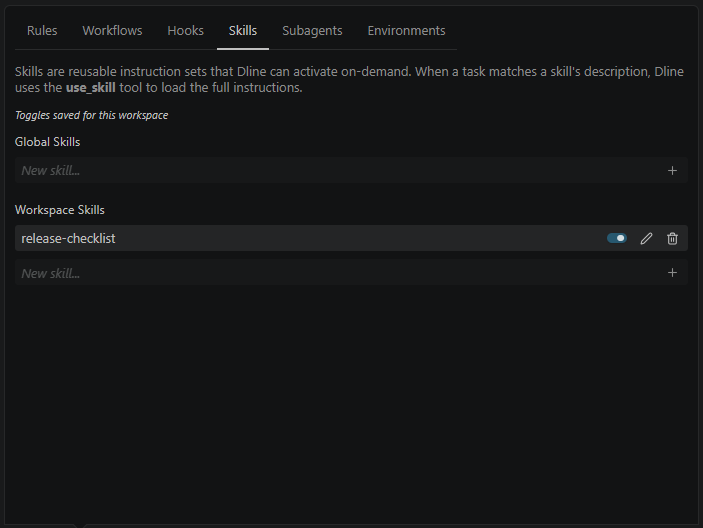
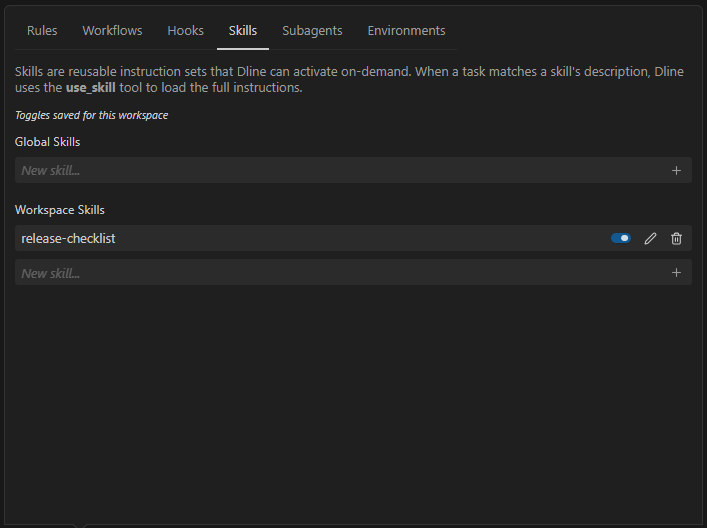
docs: show light-theme captures on the light docs theme
Docs:
- pair every @docs-assets capture with its -light edition at build time and let the Starlight theme classes show one of them, in both languages
- fail the content check when a capture has no light edition or names the light edition directly
- record light editions of every docs UI still and GIF, and re-record the dark stills against the current UI
- describe the panel title bar without the rollout-only Account button

Refactor:
- name documentation stills by theme so a light capture never replaces the dark one

diff --git a/src/test/e2e/demo/docs-ui.demo.ts b/src/test/e2e/demo/docs-ui.demo.ts
@@ -33,8 +33,9 @@ const WORKFLOW_NAME = "release-review"
 const MCP_NAME = "release-tools"
 const HEADER_TASK_TEXT = "Summarize the release checklist for this workspace."
 const HEADER_TASK_RESULT = "Release checklist summarized."
-// View-title actions contributed by package.json `menus.view/title`, in their display order.
-const PANEL_TITLE_ACTIONS = ["New Task", "MCP Servers", "History", "Account", "Settings"] as const
+// View-title actions contributed by package.json `menus.view/title`, in their display order. Account is
+// left out: it shows only while the account rollout includes the device, which a capture does not.
+const PANEL_TITLE_ACTIONS = ["New Task", "MCP Servers", "History", "Settings"] as const
 
 async function seedWorkspaceCapabilities(workspaceDir: string): Promise<void> {
     const files: Record<string, string> = {
@@ -113,13 +114,14 @@ function taskHeaderIconButton(header: Locator, icon: string): Locator {
     return header.locator(`button:has(svg.lucide-${icon})`).first()
 }
 
-demo("docs UI stills", async ({ helper, page, server, sidebar, workspaceDir }) => {
+demo("docs UI stills", async ({ demoTheme, helper, page, server, sidebar, workspaceDir }) => {
     demo.setTimeout(240_000)
     await seedWorkspaceCapabilities(workspaceDir)
     await helper.signin(sidebar)
 
     const panelTitle = page.locator('[id="workbench.parts.sidebar"] .composite.title').first()
     await captureDocScreenshot(page, sidebar, "panel-title-bar", {
+        theme: demoTheme,
         regions: [panelTitle],
         padding: 4,
         markers: PANEL_TITLE_ACTIONS.map((name, index) => ({
@@ -130,6 +132,7 @@ demo("docs UI stills", async ({ helper, page, server, sidebar, workspaceDir }) =
 
     const modeSwitch = sidebar.getByTestId("mode-switch")
     await captureDocScreenshot(page, sidebar, "chat-input-toolbar", {
+        theme: demoTheme,
         regions: [autoApproveToggle(sidebar, false), sidebar.getByTestId("chat-input"), modeSwitch],
         markers: [
             { label: "1", target: sidebar.getByTestId("context-button") },
@@ -155,7 +158,7 @@ demo("docs UI stills", async ({ helper, page, server, sidebar, workspaceDir }) =
     for (const { tab, id, item } of capabilityTabs) {
         await selectCapabilityTab(popup, tab)
         await expect(item).toBeVisible({ timeout: 30_000 })
-        await captureDocScreenshot(page, sidebar, id, { regions: [popup], padding: 4 })
+        await captureDocScreenshot(page, sidebar, id, { theme: demoTheme, regions: [popup], padding: 4 })
     }
     await sidebar.getByRole("button", { name: "Hide Dline Rules & Workflows", exact: true }).first().click()
     await expect(popup).toBeHidden()
@@ -164,6 +167,7 @@ demo("docs UI stills", async ({ helper, page, server, sidebar, workspaceDir }) =
     const autoApproveIntro = sidebar.getByText("Let Dline take these actions without asking for approval.", { exact: false })
     await expect(autoApproveIntro).toBeVisible()
     await captureDocScreenshot(page, sidebar, "auto-approve-menu", {
+        theme: demoTheme,
         regions: [
             autoApproveIntro,
             sidebar.getByText("Notifications may show abbreviated tool details", { exact: false }),
@@ -177,6 +181,7 @@ demo("docs UI stills", async ({ helper, page, server, sidebar, workspaceDir }) =
     const serverName = sidebar.getByText(MCP_NAME, { exact: true })
     await expect(serverName).toBeVisible({ timeout: 30_000 })
     await captureDocScreenshot(page, sidebar, "mcp-servers-popup", {
+        theme: demoTheme,
         regions: [
             sidebar.getByText("MCP Servers", { exact: true }),
             sidebar.getByRole("button", { name: "Go to MCP server settings" }),
@@ -208,6 +213,7 @@ demo("docs UI stills", async ({ helper, page, server, sidebar, workspaceDir }) =
     await expect(metrics).toBeVisible({ timeout: 30_000 })
     await expect(sidebar.getByTestId("context-window-indicator")).toBeVisible({ timeout: 30_000 })
     await captureDocScreenshot(page, sidebar, "task-header", {
+        theme: demoTheme,
         regions: [header],
         padding: 8,
         markers: [

diff --git a/docs/astro.config.ts b/docs/astro.config.ts
@@ -8,6 +8,7 @@ import { locales, ROOT_LOCALE } from "./src/data/locales.mjs"
 import { sidebar } from "./src/data/navigation.mjs"
 import { redirects } from "./src/data/redirects.mjs"
 import { remarkBaseLinks, toPrefix, withBase } from "./src/plugins/remark-base-links.mjs"
+import { remarkThemedImages } from "./src/plugins/remark-themed-images.mjs"
 
 const { site, base } = resolveSiteConfig()
 const repositoryUrl = "https://github.com/TuvokYang/dline"
@@ -24,6 +25,7 @@ export default defineConfig({
     },
     integrations: [
         baseSafeContentLinks(),
+        themedContentImages(),
         starlight({
             title: {
                 en: "Dline Docs",
@@ -74,14 +76,34 @@ function baseSafeContentLinks(): AstroIntegration {
                 // Registered here rather than at the top level so a `--base` CLI override
                 // (used by `npm run dev`) also reaches redirect destinations.
                 updateConfig({ redirects: withBaseDestinations(redirects, config.base) })
-                const processor = config.markdown.processor
-                if (!processor || !isUnifiedProcessor(processor)) {
-                    throw new Error(
-                        `dline-docs:base-safe-links requires the unified Markdown processor, got "${processor?.name ?? "none"}".`,
-                    )
-                }
-                processor.options.remarkPlugins.push([remarkBaseLinks, { base: config.base }])
+                remarkPluginsOf(config, "dline-docs:base-safe-links").push([remarkBaseLinks, { base: config.base }])
             },
         },
     }
+}
+
+/**
+ * Show every documentation capture in the edition of the reader's color theme.
+ * Fails fast like the base-link rewrite, because skipping it would silently
+ * publish dark captures on light pages.
+ */
+function themedContentImages(): AstroIntegration {
+    return {
+        name: "dline-docs:themed-images",
+        hooks: {
+            "astro:config:setup": ({ config }) => {
+                remarkPluginsOf(config, "dline-docs:themed-images").push([remarkThemedImages, {}])
+            },
+        },
+    }
+}
+
+type AstroSetupConfig = Parameters<NonNullable<AstroIntegration["hooks"]["astro:config:setup"]>>[0]["config"]
+
+function remarkPluginsOf(config: AstroSetupConfig, integrationName: string) {
+    const processor = config.markdown.processor
+    if (!processor || !isUnifiedProcessor(processor)) {
+        throw new Error(`${integrationName} requires the unified Markdown processor, got "${processor?.name ?? "none"}".`)
+    }
+    return processor.options.remarkPlugins
 }

diff --git a/src/test/e2e/demo/utils/doc-capture.ts b/src/test/e2e/demo/utils/doc-capture.ts
@@ -3,6 +3,7 @@ import path from "node:path"
 import type { Frame, Locator, Page } from "@playwright/test"
 import sharp from "sharp"
 import { E2ETestHelper } from "../../utils/helpers"
+import { type DemoTheme, themedAssetId } from "./demo-theme"
 import { dismissDemoNotifications } from "./png-asset"
 
 /**
@@ -30,6 +31,8 @@ export interface DocMarker {
 }
 
 export interface DocCaptureOptions {
+    /** Theme the window is in; it names the asset edition, so a light capture never replaces the dark one. */
+    theme: DemoTheme
     /** Area of the window to keep; the union of these boxes plus padding becomes the image. */
     regions: Locator[]
     /** Numbered callouts drawn next to each target, in reading order. */
@@ -146,7 +149,7 @@ export async function captureDocScreenshot(
     }
 
     await mkdir(DOC_UI_ASSET_DIR, { recursive: true })
-    const outputPath = path.join(DOC_UI_ASSET_DIR, `${id}.png`)
+    const outputPath = path.join(DOC_UI_ASSET_DIR, `${themedAssetId(id, options.theme)}.png`)
     await writeFile(outputPath, data)
     return { path: outputPath, width: info.width, height: info.height, bytes: data.byteLength }
 }
